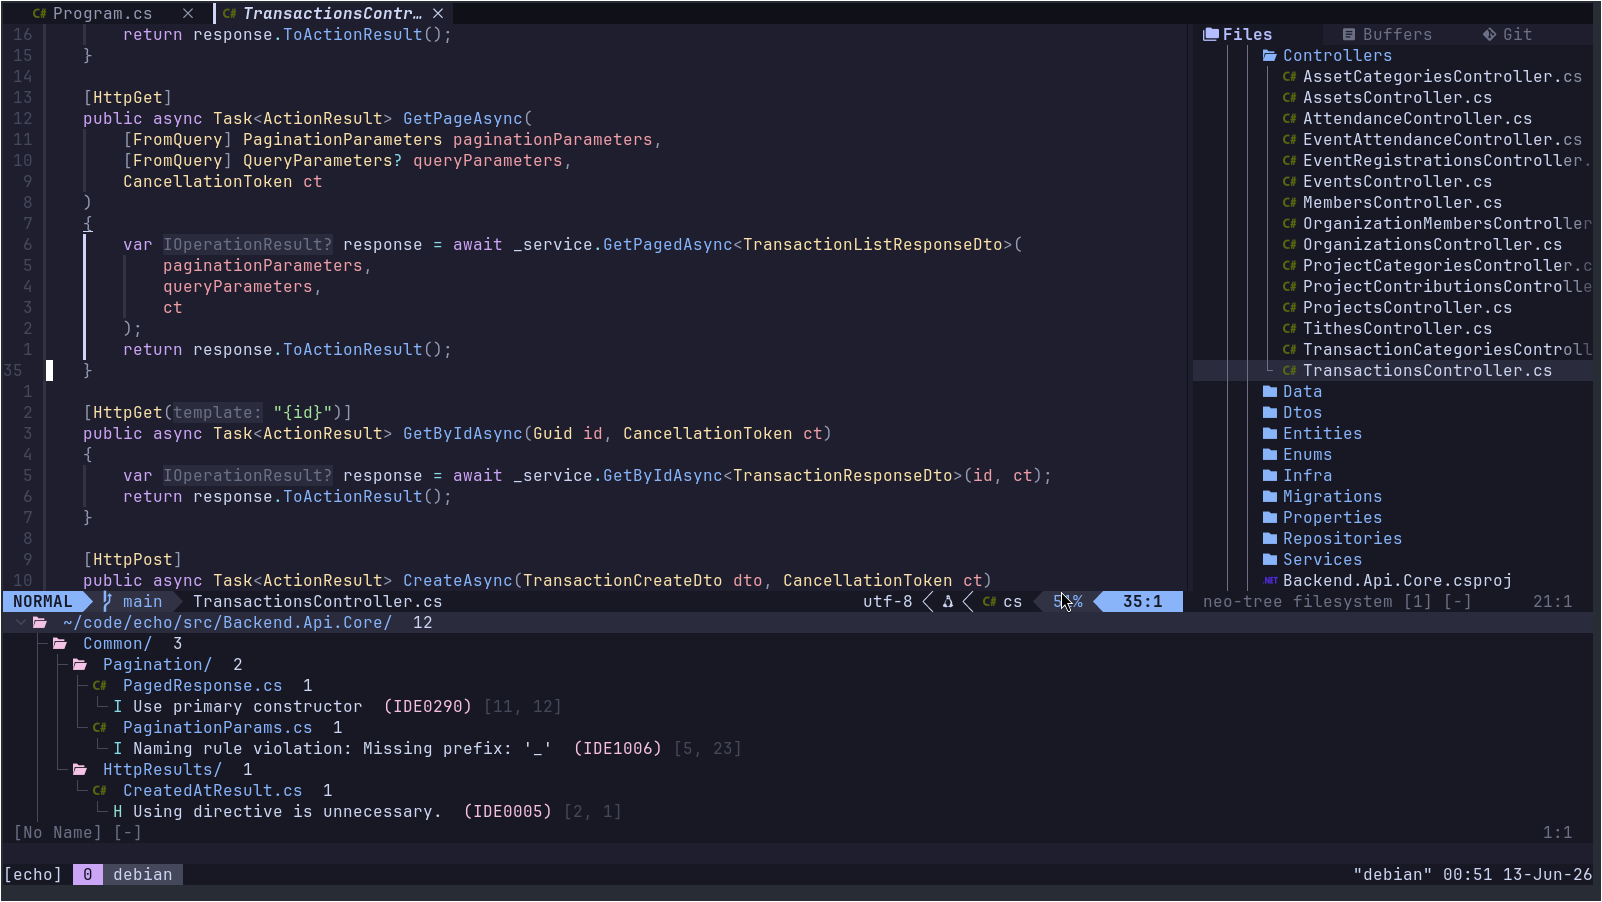
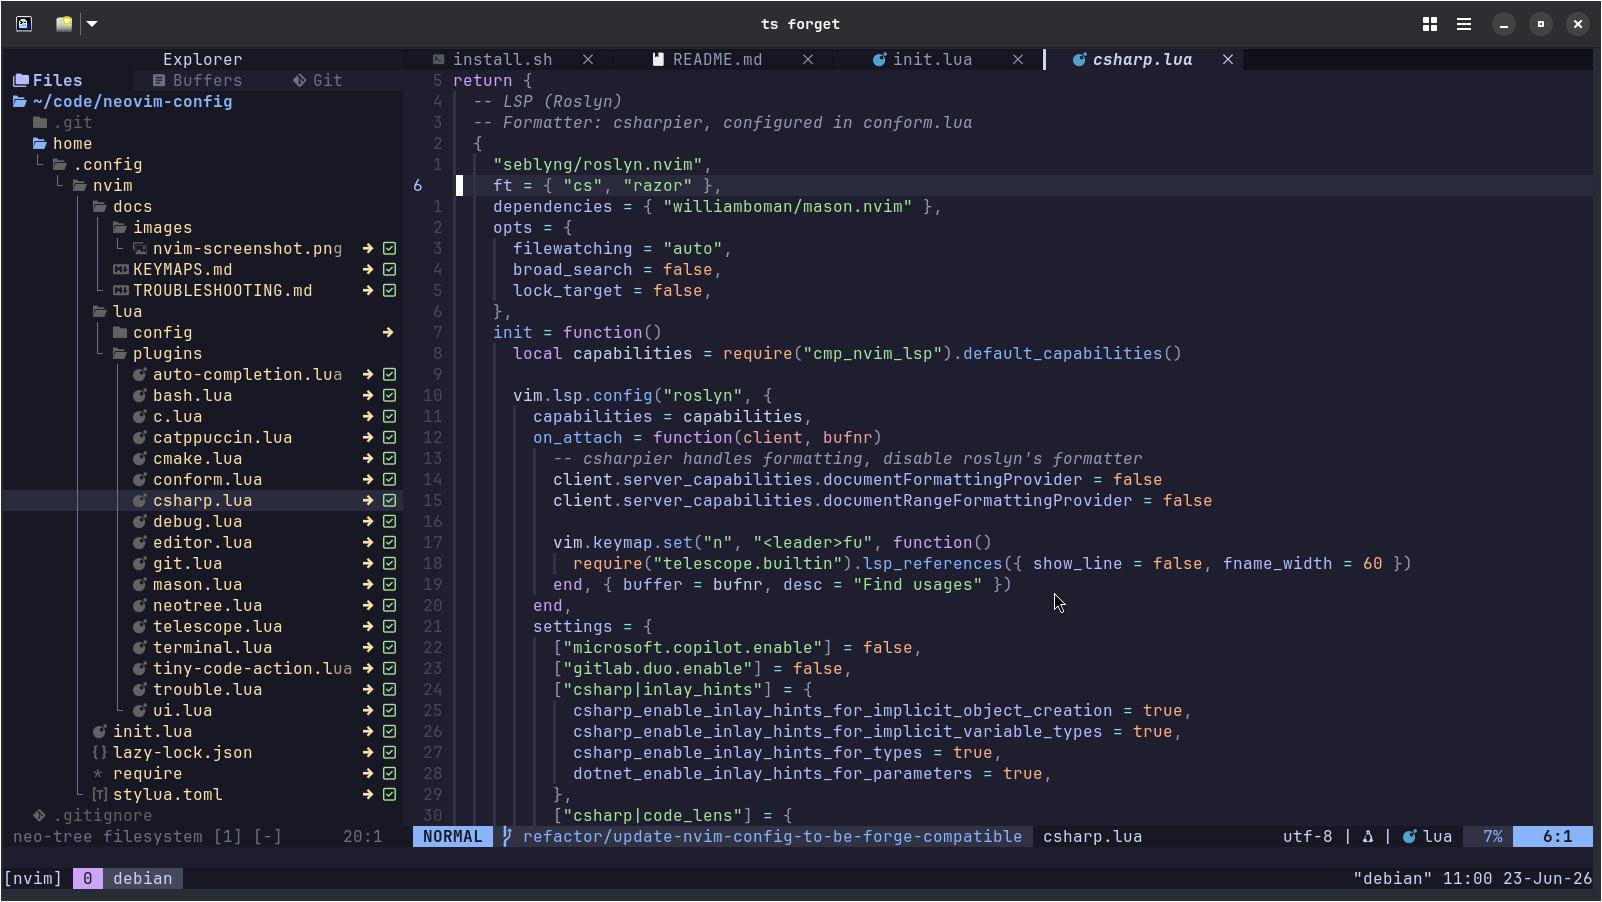
chore: add screenshot to readme

diff --git a/README.md b/README.md
@@ -1,6 +1,9 @@
 # forge-nvim
 
-Personal Neovim config. Modular by design — each language gets its own file, nothing is tangled together. Part of the [forge](https://github.com/clintonbampoe/forge) ecosystem.
+Personal Neovim config. Modular by design — each language gets its own file, nothing is tangled together.  
+Part of the [forge](https://github.com/clintonbampoe/forge) ecosystem.
+
+![screenshot of set up](./home/.config/nvim/docs/images/nvim-screenshot.png) 
 
 ## Structure
 
